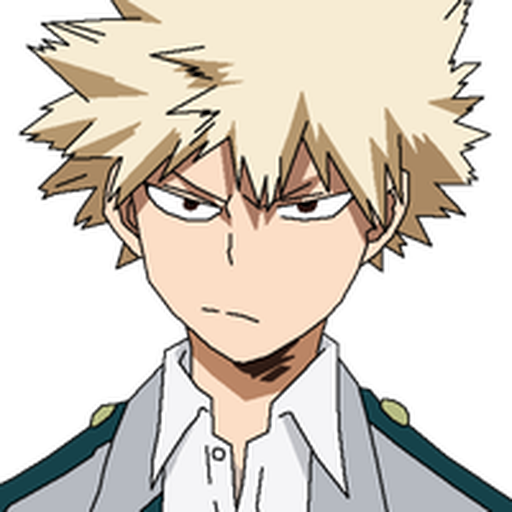
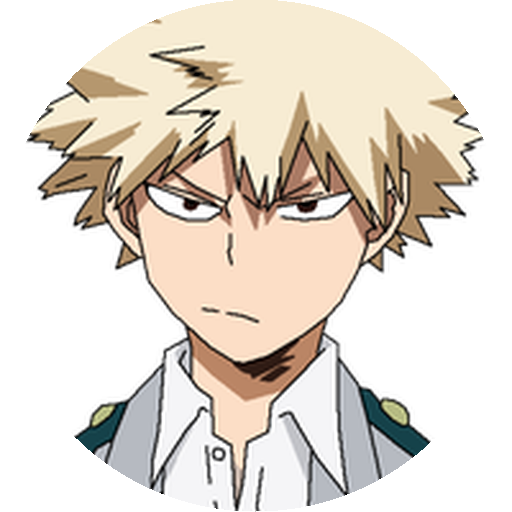
almost last version

diff --git a/src/logic.py b/src/logic.py
@@ -80,7 +80,7 @@ def check_shape(img):
 
 @log_time
 def get_palette_sentiment(img:object) -> dict:
-
+    logging.info(f"Happy - Check if the palette colors is happy,")
     palette = get_colors(img)
     logging.info(f"Palette colors found: {len(palette)}")
     len_palette = len(palette)
@@ -92,8 +92,6 @@ def get_palette_sentiment(img:object) -> dict:
     
     happy_colors = [(is_happy(color),color) for color in dominats]
     
-    logging.info(f"Happy colors found: {sum(1 for v in happy_colors if(v[0]))}")
-
     h = sum(1 for v in happy_colors if(v[0]))
     if(h > 2 and h > int(len(happy_colors)/2)):
         h = h > int(len(happy_colors)/2)
@@ -101,15 +99,18 @@ def get_palette_sentiment(img:object) -> dict:
         h = h > 0
         
     logging.info(f"Is happy? {h}")
-    if len_palette > 2:
+    if len_palette < 2:
         logging.info(f" - Maybe we can fix this..")
-
+        no_happy_map = remap_sad_colors(palette)
+        logging.info(f" - Swapping colors {no_happy_map}")
+        swap_no_dominants(img,no_happy_map)
+        
+        
     return 
 
 @log_time
 def resize_image(path:str,path_out:str):
     image = Image.open(path)
-
     # Antialis algorithm
     # https://stackoverflow.com/questions/76616042/attributeerror-module-pil-image-has-no-attribute-antialias
     # or .thumbnail
@@ -170,6 +171,8 @@ def is_happy(rgb):
     return any(start <= h < end for start, end in happy_color_ranges)
 
 def is_transparent(rgba):
+    if(rgba == (0, 0, 0, 0)):
+        return True
     r, g, b, a = rgba
     return a > 0.9
 
@@ -193,8 +196,12 @@ def get_colors(img:object):
                     not out_pixel
                  ):
                     out_pixel = True
-                    logging.info(f"Out Pixel found: {img.getpixel((x,y))}")
+                    logging.info(f"No transparent pixel found: {img.getpixel((x,y))}")
                 drawer.point((x,y),fill=(255, 0, 0, 0)) # just set alpha channel
+    
+    if(not out_pixel):
+        logging.info(f"There are no non-transparent pixel out of the circle")
+
     return colors
 
 def swap_dominants(img:object,dominants:dict):
@@ -203,10 +210,11 @@ def swap_dominants(img:object,dominants:dict):
 def swap_no_dominants(img:object,no_happy:dict):
     def getColor(t,m):
         return [p[1] for p in m if p[0] == t][-1]
-    #img.convert("RGB")
+
     img_drawer = ImageDraw.Draw(img)
-    # note assunzione array corto
+    
     width, height = TARGET_SIZE
+    logging.info(f"Swapping no dominants colors {no_happy}")
     no_happy_s = [c[0] for c in no_happy]
     logging.info(f"Swapping no dominants colors {no_happy_s}")
     for x in range(width):
@@ -219,10 +227,11 @@ def swap_no_dominants(img:object,no_happy:dict):
             else:
                 img_drawer.point((x,y),fill=(255,255,255,0)) # just set alpha channel
 
+
     return
 
 def remap_sad_colors(colors:list):    
-    return[(color[1],get_random_happy_color()) for color in colors if(not color[0])]
+    return[(color,get_random_happy_color()) for color in colors if(not color[0])]
     
 def make_happy(img:object,info:dict):
     if(info["dominant_map"] != {}):
@@ -248,9 +257,6 @@ def happy_or_swap(img:object):
     
     return info
 
-def happy(img:object):
-    logging.info(f"Happy - Check if the palette colors is happy,")
-    return get_palette_sentiment(img)
     
 
 @log_time
@@ -263,7 +269,7 @@ def base(path:str,path_out:str):
         return
     
     #check_shape(img)
-    happy(img)
+    get_palette_sentiment(img)
 
     logging.info(f"Saving image at {path_out}")
     

diff --git a/src/colors.py b/src/colors.py
@@ -6,7 +6,13 @@ import logging
 logging.basicConfig()
 logging.root.setLevel(logging.INFO)
 
+def warn(*args, **kwargs):
+    pass
+import warnings
+warnings.warn = warn
+
 def extract_dominant_colors_from_palette(palette, num_colors=5):
+    logging.info(f"Start clustering, number of centers: {num_colors}")
     # Use K-Means clustering to extract dominant colors
     kmeans = KMeans(n_clusters=num_colors)
     kmeans.fit(palette)

diff --git a/README.md b/README.md
@@ -11,22 +11,12 @@ We want users to upload a badge: an avatar within a circle. Create a function ta
 Additionally, you can create a parallel function that converts the given image (of any format) into the specified object.
 ```
 
-### Try solution
-
-
-To run a random sample just type
-
-    > python3 ./src/main.py
-
-To run a specific sample just type the name without extension for PNG
- files or with extension for other files
-
-    > python3 ./src/main.py <sample_name> 
-
 
 ### Solution
 
-I'm new to image manipulation but to start to create something I immediatly choose Python as a first try, for conveniance of simplicity. I found Pillow (PIL) and after some tentatives I found that it was a good choise for me. 
+(if you want to just directyl to the execution part [click here](#example-of-execution))
+
+I'm new to image manipulation, but I immediately chose Python as my first attempt due to its convenience and simplicity. I found Pillow (PIL) and after some attempts I found that it was a good choise for me. 
 
 I approach the problem by splitting it steps:
 
@@ -47,23 +37,190 @@ The **point 1.** was easy to address thanks to PIL and the possibility to conver
 For the **point 2.** I found that PIL provide 2 ways of resizing an image, by using `Image.thumbnail()` or by using `Image.resize()`.
 Even if `Image.thumbnail()` use a scaled approach and so the image is not cutted during resize, it does not provide alwasys an output of the correct target size (512x512) but it will rather be an approximated one. Since this I use `Image.resize()` with the algorithm `Lanczos` as antialias algorithm to kepp a good quality while resizing.
 
-For the **point3** my intuition was to check the pixel transparency. In fact when you have an image that use the color space RGBA you can check the alpha channel to understand if the pixel is saturated or not. In case the pixel is not saturated then you can just substitude `(255,0,0,0)` to make it transparent.
+For the **point3** my intuition was to check the pixel transparency. In fact when you have an image that use the color space RGBA you can check the alpha channel to understand if the pixel is saturated or not. If the pixel is not saturated, you can simply replace it with (255, 0, 0, 0) to make it transparent
 
-For the **point4**, colors. In this case I could not manage to have the pallette using `Image.getpalette()` and so I iterate over the image to find all the colors to determine if the palette was an happy one or not.
-My simple approach to determine if a pelette of colors is happy was to define which colors are happy, I decided that: *red, blue, yellow, green, pink and orange* were happy colors.
+For the **point4**, colors. In this case `Image.getpalette()` was not working and so I iterate over the image to find all the colors to determine the palette, then to determine if it was an happy palette one or not.
+My simple approach to determine if a palette of colors is 'happy' was to define which colors evoke a 'happy' feeling, I decided that: *red, blue, yellow, green, pink and orange* were happy colors.
 At this point we need a way to check if a given color is in the list of happy colors.
 To determine this you should notice that `(255, 0, 0, 1)` is **red** even `(255, 1, 0, 1)` is **red** and even `(255, 0, 1, 0.9)`. is still **red**. 
-I try with two approach (based on intuitions but also asking to GPT), the first one was based on considering just a section of the [HSL](https://en.wikipedia.org/wiki/HSL_and_HSV#/media/File:Hsl-hsv_models.svg
-) an area of "happy" color. But the result of the categorization was not good (check `./src/logic.py:is_happy_old(rgba)`), but by dropping the information of the alpha channel (saturation) the categorization start to be acceptable (check `./src/logic.py:is_happy(rgba)`) at least in the space of the samples that I'm considering and so I stick for the approach.
+I tried two approaches (based on intuition and consulting GPT). The first approach involved considering only a section of the [HSL](https://en.wikipedia.org/wiki/HSL_and_HSV#/media/File:Hsl-hsv_models.svg
+) color space as the 'happy' color area. an area of "happy" color. But the result of the categorization was not good (check `./src/logic.py:is_happy_old(rgba)`), but by dropping the information of the alpha channel (saturation) the categorization start to be acceptable (check `./src/logic.py:is_happy(rgba)`) at least in the space of the samples that I'm considering and so I stick for the approach.
 
-Another problem is that an image can have a lot of colors, and not all of them can be considered relevant during the analysis. Given this unless the image has only few colors ,for example the `github` sample you can run, does not make sense too much to maitain this approach but we would like to take only the dominant colors. To solve this problem I use a very basic clustering algorithm **KMeans** from `sklearn.cluster`, the idea is to identify the most prominent colors of the image by grouping them in clusters and pick the center of this cluster (My datascience skills were a bit rusty). After this just following the same approach as before with the dominant colors of the palette. 
-Finally, an image is happy is it has more happy then sad colors.
+Another problem is that an image can have a lot of colors, and not all of them can be considered relevant during the analysis. Given this unless the image has only few colors ,for example the `github` sample you can run, does not make sense too much to maitain this approach but we would like to take only the dominant colors. To solve this problem I use a very basic clustering algorithm **KMeans** from `sklearn.cluster`, The idea was to identify the most prominent colors in the image by grouping them into clusters and pick the center of it (My datascience skills were a bit rusty). After this just following the same approach as before with the dominant colors of the palette. 
+Finally, an image is considered 'happy' if it contains more 'happy' colors than 'sad' colors
 
-At this point from the exercise I also 
-
+At this point from the exercise I also understand that if the image is a sad image you make it an happy one.This took me some time, and I will provide additional comments in the [Notes section](#side-notes).
+Anyway the actual given solution substitude the colors only if there are just few of them (try yourself with `github` sample), in this case the sad colors are mapped with happy colors and then swapped while iterating over the image.
 
 ### Final consideration
 
+Consideration on Results !!!
 
+If I envision that this assignment is part of a product then there is plenty of room to improve the solution, from the algorithm of substitution of pixel to the color categorization, there are several areas where refinement can significantly improve the product. 
+Image processing, while not my primary area of expertise, was a fascinating challenge. For this reason I follow a structured approach that would allow me to break down the problem into manageable components. This segmentation of tasks, I believe, is a vital strategy to address complex issues, ensuring that each element of the solution can be analyzed, improved, and optimized independently.
 
 ## Side Notes 
+
+I felt like I might be overengineering the solution; that's why I stopped. I had an idea, but I didn't test it extensively. Instead, I concentrated my efforts on the core part of the entire assignment. I left the incomplete code in the repository as reference but the point was that: If you consider the dominants color while swapping sad colors with happy colors then you have to check all the potential labels for each of the dominant color you have, this is computational expensive if you have an image with a lot of different colors and potentially not accurate at all. I was planning to reduce the complexity by defining a similarity function able to at which pixel belong which dominant color to be able to define the new color. 
+
+If you have further questions or if you're curious, we can discuss this point during the upcoming meeting, which I hope we will have.
+
+### Try solution
+
+
+To run a random sample just type
+
+    > python3 ./src/main.py
+
+To run a specific sample just type the name without extension for PNG
+ files or with extension for other files
+
+    > python3 ./src/main.py <sample_name> 
+
+    > python3 ./src/main.py github
+
+# Example of execution:
+
+### Sample 1
+
+Sample Info
+
+- home
+- 400x400
+- png
+- expected happy 
+
+| Sample Input | Output Image | Execution Time|
+| ------------ |------------ | ------------- |
+|![Image 1](./examples/base/home.jpg)| ![Image 2](./examples/output/home.png) | 13.65 seconds|
+```
+Program output
+
+INFO:root:Parallel - Image path: ./examples/base/home.jpg
+INFO:root:Image format : PNG
+INFO:root:Image mode : RGBA
+INFO:root:Original image size : (599, 371)
+INFO:root:Resizing image
+INFO:root:Happy - Check if the palette colors is happy,
+INFO:root:Palette colors found: 16613
+INFO:root:Start clustering, number of centers: 5
+INFO:root:Is happy? True
+INFO:root:get_palette_sentiment took 13.69 seconds to execute.
+INFO:root:Saving image at ./examples/output/home.png
+INFO:root:base took 13.80 seconds to execute.
+```
+
+### Sample 2
+
+Sample Info
+- b44
+- 400x400
+- png
+- expected happy 
+
+| Sample Input | Output Image | Execution Time|
+| ------------ |------------ | ------------- |
+|![Image 1](./examples/base/b44.png)| ![Image 2](./examples/output/b44.png) | 7.50 seconds|
+
+```
+Program output
+
+INFO:root:Parallel - Image path: ./examples/base/b44.png
+INFO:root:Image format : PNG
+INFO:root:Image mode : RGBA
+INFO:root:Original image size : (400, 400)
+INFO:root:Resizing image
+INFO:root:Happy - Check if the palette colors is happy,
+INFO:root:Out Pixel found: (0, 0, 0, 0)
+INFO:root:Palette colors found: 15017
+INFO:root:Start clustering, number of centers: 5
+INFO:root:Is happy? True
+INFO:root:get_palette_sentiment took 7.45 seconds to execute.
+INFO:root:Saving image at ./examples/output/b44.png
+INFO:root:base took 7.50 seconds to execute.
+```
+
+### Sample 3
+
+Sample Info
+- basket
+- 500x900
+- png
+- No expectation
+
+| Sample Input | Output Image | Execution Time|
+| ------------ |------------ | ------------- |
+|![Image 1](./examples/base/basket.png)| ![Image 2](./examples/output/basket.png) |  1.35 seconds|
+```
+INFO:root:Parallel - Image path: ./examples/base/basket.png
+INFO:root:Image format : PNG
+INFO:root:Image mode : RGBA
+INFO:root:Original image size : (500, 900)
+INFO:root:Resizing image
+INFO:root:Happy - Check if the palette colors is happy,
+INFO:root:Out Pixel found: (0, 0, 1, 0)
+INFO:root:Palette colors found: 100799
+INFO:root:Start clustering, number of centers: 5
+INFO:root:Is happy? True
+INFO:root:get_palette_sentiment took 94.43 seconds to execute.
+INFO:root:Saving image at ./examples/output/basket.png
+INFO:root:base took 94.56 seconds to execute.
+```
+
+### Sample 4
+
+Sample Info
+- eyes
+- 512x512
+- png
+- expected sad
+
+| Sample Input | Output Image | Execution Time|
+| ------------ |------------ | ------------- |
+|![Image 1](./examples/base/eyes.png)| ![Image 2](./examples/output/eyes.png) | 0.86 seconds|
+```
+Program output logs:
+
+INFO:root:Parallel - Image path: ./examples/base/eyes.png
+INFO:root:Image format : PNG
+INFO:root:Image mode : RGBA
+INFO:root:Happy - Check if the palette colors is happy,
+INFO:root:Palette colors found: 251
+INFO:root:Start clustering, number of centers: 5
+INFO:root:Is happy? False
+INFO:root:get_palette_sentiment took 0.86 seconds to execute.
+INFO:root:Saving image at ./examples/output/eyes.png
+INFO:root:base took 0.88 seconds to execute.
+```
+
+### Sample 4
+
+Sample Info
+- github
+- 200x200
+- png
+- expected sad -> to be colorized
+
+(PS: if you have dark mode maybe you don't see the imagein sample input column)
+
+| Sample Input | Output Image | Execution Time|
+| ------------ |------------ | ------------- |
+|![Image 1](./examples/base/github.png)| ![Image 2](./examples/output/github.png) | 0.86 seconds|
+```
+INFO:root:Parallel - Image path: ./examples/base/github.png
+INFO:root:Image format : PNG
+INFO:root:Image mode : RGBA
+INFO:root:Original image size : (128, 128)
+INFO:root:Resizing image
+INFO:root:Happy - Check if the palette colors is happy,
+INFO:root:There are no non-transparent pixel out of the circle
+INFO:root:Palette colors found: 1
+INFO:root:Is happy? False
+INFO:root: - Maybe we can fix this..
+INFO:root: - Swapping colors [((0, 0, 0, 0), 'red')]
+INFO:root:Swapping no dominants colors [((0, 0, 0, 0), 'red')]
+INFO:root:Swapping no dominants colors [(0, 0, 0, 0)]
+INFO:root:get_palette_sentiment took 1.35 seconds to execute.
+INFO:root:Saving image at ./examples/output/github.png
+INFO:root:base took 1.38 seconds to execute.
+```
